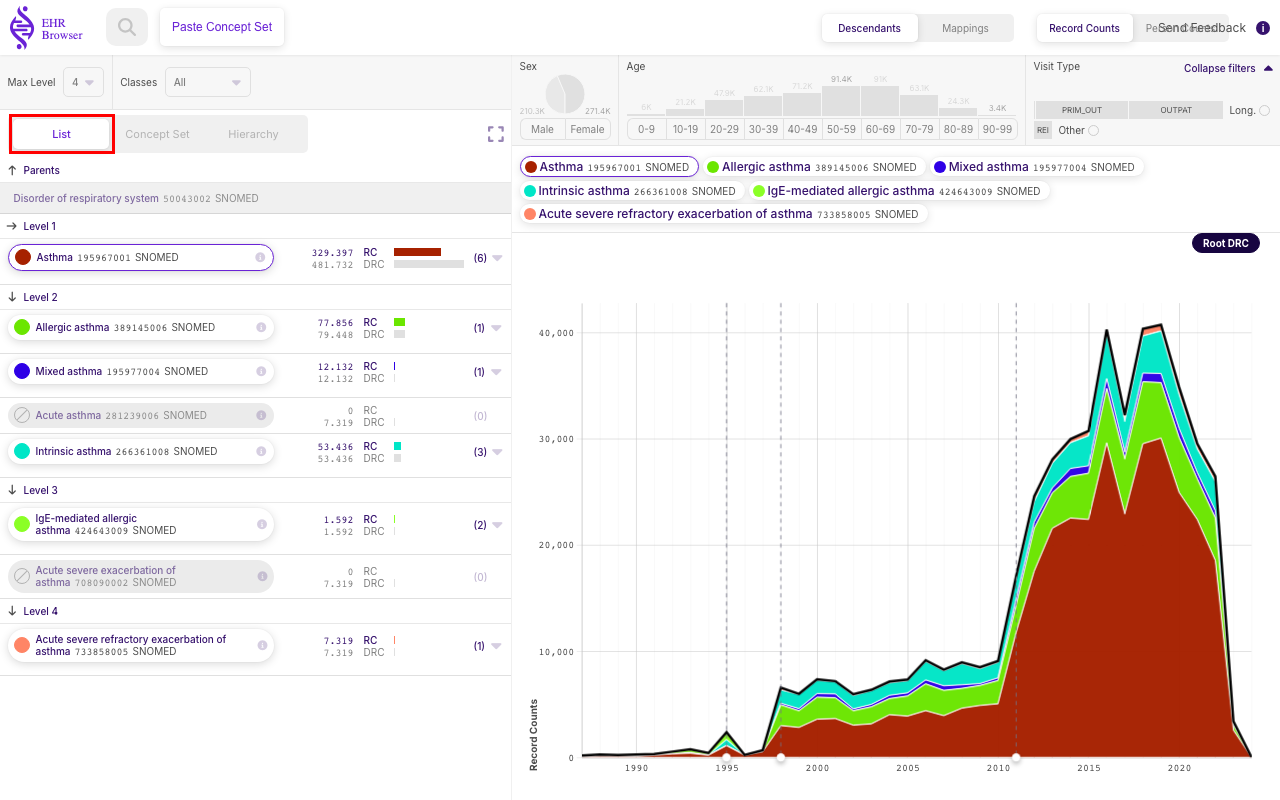
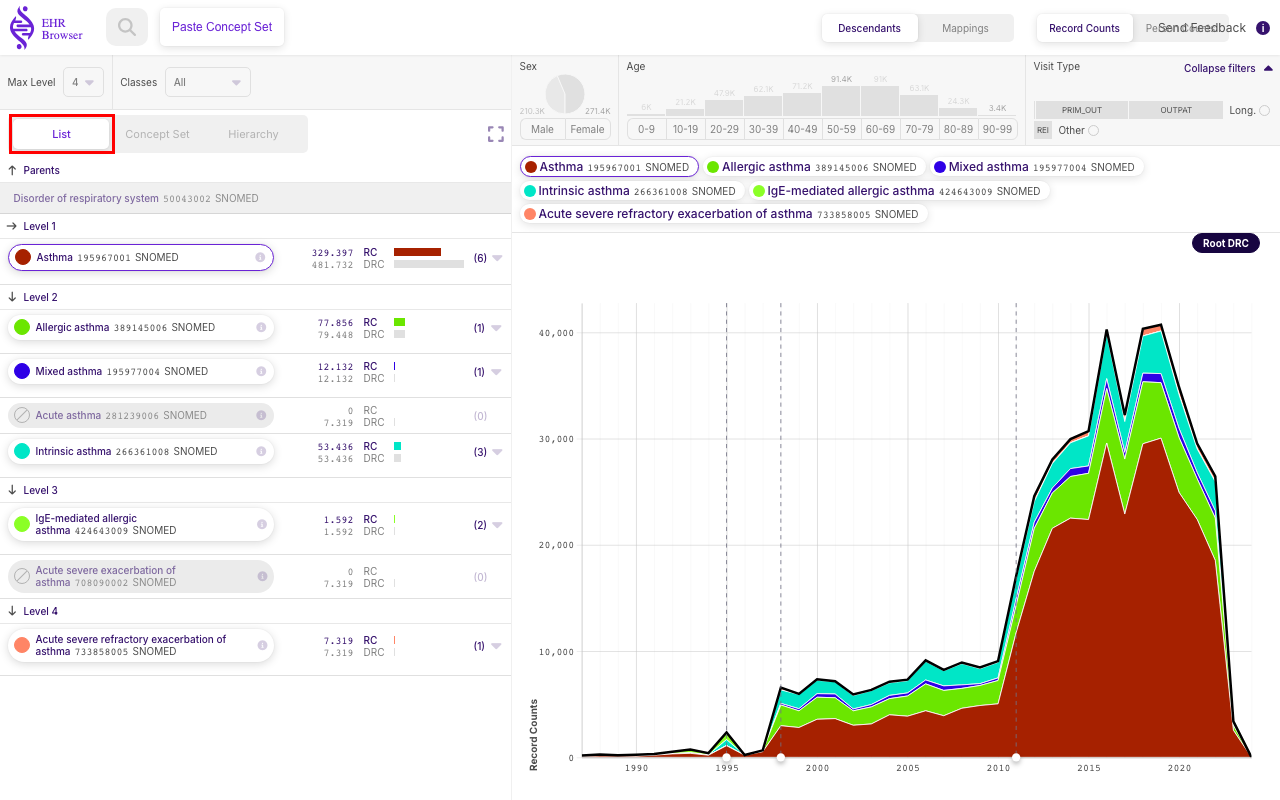
fix(autodocu): settle animations before screenshot capture
Chart screenshots flagged ~8% changed on visually-identical runs. Root
cause was capture timing, not the diff: the chart fades in, so a shot
taken mid-fade renders the fill at partial opacity, and the whole filled
area (~20/255 over ~8% of the frame) drifts run to run. No pixel-delta
tolerance can absorb that without going blind to real changes.

shot() now calls waitForStable(), polling the viewport until two
consecutive frames are byte-identical (8s cap) so captures are
reproducible. Fixed in both the live helpers and the skill template.

Also rolls in the previously-uncommitted 1280 x 800 rebuild of section 1
(window size, regenerated docs/spec/app_control, and settled baselines).

diff --git a/AUTODOCU/Tests/1.Exploring_a_single_standard_concept/exploring_a_single_standard_concept.spec.ts b/AUTODOCU/Tests/1.Exploring_a_single_standard_concept/exploring_a_single_standard_concept.spec.ts
@@ -5,48 +5,52 @@ const SECTION = '1.Exploring_a_single_standard_concept'; // must equal the folde
 
 test('exploring a single standard concept', async ({ page }) => {
   await page.goto('/'); // baseURL from config
-  // The app loads its vocabulary asynchronously; wait until it settles so the
-  // search field's input handler is wired up before we type.
   await page.waitForLoadState('networkidle');
-  const search = page.locator('#searchConcept');
-  await search.waitFor({ state: 'visible' });
 
   // ## Searching for a concept
-  // Use the 'Search concept' field to search for the 'Asthma' string.
-  await search.click();
-  await search.pressSequentially('Asthma', { delay: 60 });
+  // Use the 'Search concept' field to search for 'Asthma'.
+  const search = page.getByRole('textbox', { name: 'Search concept' });
+  await search.waitFor({ state: 'visible' });
 
-  // Hover over the 'AsthmaSNOMED' concept in the suggestion list, highlight it,
-  // and take a screenshot. (Outline calls it 'Astma SNOMED'; the real label is
-  // 'AsthmaSNOMED', standard concept id 317009.)
-  const asthmaSnomed = page.locator('#suggestion-317009');
-  await asthmaSnomed.waitFor({ state: 'visible' });
+  // Hover over the 'Asthma SNOMED' result (rendered as "AsthmaSNOMED").
+  const asthmaSnomed = page.getByText('AsthmaSNOMED', { exact: true });
+  // On a cold start the vocabulary index can still be loading, so the first
+  // keystroke query may return nothing. Retry typing until the result appears.
+  await expect(async () => {
+    await search.fill('');
+    await search.pressSequentially('Asthma', { delay: 30 });
+    await expect(asthmaSnomed).toBeVisible({ timeout: 3000 });
+  }).toPass({ timeout: 30000 });
+
+  // Highlight the result in the list and take a screenshot.
   await asthmaSnomed.hover();
   await highlight(page, asthmaSnomed);
   await shot(page, SECTION, '01-searching-for-a-concept');
   await clearHighlights(page);
 
-  // Click 'AsthmaSNOMED' and wait for the concept page to load.
+  // Click the concept and wait for the concept page to load.
   await asthmaSnomed.click();
   await page.waitForURL('**/317009');
-  await page.locator('#graph-group').waitFor({ state: 'visible' });
-  await page.locator('#view-toggle').waitFor({ state: 'visible' });
   await page.waitForLoadState('networkidle');
+  // Wait for both panels of the concept view to render before capturing:
+  // the left List toggle, and the right plot with its legend populated.
+  await page.locator('#list-toggle').waitFor({ state: 'visible' });
+  await page.locator('#graph-group').waitFor({ state: 'visible' });
+  await page.locator('#label-317009').first().waitFor({ state: 'visible' });
 
   // ## The concept view
   await shot(page, SECTION, '02-the-concept-view');
 
   // ### Hierarchy view
-  // Highlight the 'List' selector in the left (sidebar) area and take a screenshot.
+  // Highlight the 'List' selector in the left area and take a screenshot.
   const listSelector = page.locator('#list-toggle');
   await highlight(page, listSelector);
   await shot(page, SECTION, '03-hierarchy-view');
   await clearHighlights(page);
 
   // ### Time view
-  // Highlight the record-counts-over-time plot together with its colored-concept
-  // legend and take a screenshot. #graph-group wraps both the legend
-  // (#graph-labels) and the time-series chart (#graph-container).
+  // Highlight the Record Counts plot (chart + colored-concept legend) on the
+  // right of the page and take a screenshot.
   const timePlot = page.locator('#graph-group');
   await highlight(page, timePlot);
   await shot(page, SECTION, '04-time-view');

diff --git a/.claude/skills/autodocu/references/template/Tests/Scripts/playwright/_helpers.ts b/.claude/skills/autodocu/references/template/Tests/Scripts/playwright/_helpers.ts
@@ -33,9 +33,44 @@ export async function clearHighlights(page: Page) {
   });
 }
 
+// Wait until the viewport stops changing, so a screenshot is never taken while
+// something is still animating.
+//
+// WHY THIS EXISTS: charts in this kind of app fade/grow in (an opacity or path
+// transition). If you screenshot before the animation settles, the fill renders
+// at a partial opacity — and because the *timing* of the capture varies run to
+// run, two visually-identical runs disagree over the whole filled area by a
+// small-but-real amount (e.g. ~20/255 across ~8% of the frame). No pixel-delta
+// tolerance can absorb that without also going blind to genuine changes; the
+// only real fix is to capture a settled frame. So we poll: grab the viewport,
+// wait `interval`, grab again, and consider the page stable once two
+// consecutive frames are byte-identical (Chromium's PNG encoding is
+// deterministic for identical pixels). Bounded by `timeout` so a page with a
+// perpetual animation (spinner, blinking element) still proceeds.
+export async function waitForStable(
+  page: Page,
+  { interval = 250, timeout = 8000, settleFrames = 2 } = {},
+) {
+  const deadline = Date.now() + timeout;
+  let prev = await page.screenshot({ fullPage: false });
+  let stable = 1; // the first frame counts as one stable observation
+  while (Date.now() < deadline) {
+    await page.waitForTimeout(interval);
+    const cur = await page.screenshot({ fullPage: false });
+    if (cur.equals(prev)) {
+      if (++stable >= settleFrames) return;
+    } else {
+      stable = 1;
+    }
+    prev = cur;
+  }
+}
+
 // Capture a screenshot (the `take-screenshot` keyword) into
-// Documentation/<section>/screenshots/<name>.png
+// Documentation/<section>/screenshots/<name>.png. Waits for the page to stop
+// animating first so captures are reproducible run to run (see waitForStable).
 export async function shot(page: Page, section: string, name: string) {
+  await waitForStable(page);
   const file = path.join(DOC_ROOT, section, 'screenshots', `${name}.png`);
   await page.screenshot({ path: file, fullPage: false });
 }

diff --git a/AUTODOCU/Tests/Scripts/playwright/_helpers.ts b/AUTODOCU/Tests/Scripts/playwright/_helpers.ts
@@ -33,9 +33,44 @@ export async function clearHighlights(page: Page) {
   });
 }
 
+// Wait until the viewport stops changing, so a screenshot is never taken while
+// something is still animating.
+//
+// WHY THIS EXISTS: charts in this kind of app fade/grow in (an opacity or path
+// transition). If you screenshot before the animation settles, the fill renders
+// at a partial opacity — and because the *timing* of the capture varies run to
+// run, two visually-identical runs disagree over the whole filled area by a
+// small-but-real amount (e.g. ~20/255 across ~8% of the frame). No pixel-delta
+// tolerance can absorb that without also going blind to genuine changes; the
+// only real fix is to capture a settled frame. So we poll: grab the viewport,
+// wait `interval`, grab again, and consider the page stable once two
+// consecutive frames are byte-identical (Chromium's PNG encoding is
+// deterministic for identical pixels). Bounded by `timeout` so a page with a
+// perpetual animation (spinner, blinking element) still proceeds.
+export async function waitForStable(
+  page: Page,
+  { interval = 250, timeout = 8000, settleFrames = 2 } = {},
+) {
+  const deadline = Date.now() + timeout;
+  let prev = await page.screenshot({ fullPage: false });
+  let stable = 1; // the first frame counts as one stable observation
+  while (Date.now() < deadline) {
+    await page.waitForTimeout(interval);
+    const cur = await page.screenshot({ fullPage: false });
+    if (cur.equals(prev)) {
+      if (++stable >= settleFrames) return;
+    } else {
+      stable = 1;
+    }
+    prev = cur;
+  }
+}
+
 // Capture a screenshot (the `take-screenshot` keyword) into
-// Documentation/<section>/screenshots/<name>.png
+// Documentation/<section>/screenshots/<name>.png. Waits for the page to stop
+// animating first so captures are reproducible run to run (see waitForStable).
 export async function shot(page: Page, section: string, name: string) {
+  await waitForStable(page);
   const file = path.join(DOC_ROOT, section, 'screenshots', `${name}.png`);
   await page.screenshot({ path: file, fullPage: false });
 }

diff --git a/AUTODOCU/Documentation/1.Exploring_a_single_standard_concept/README.md b/AUTODOCU/Documentation/1.Exploring_a_single_standard_concept/README.md
@@ -4,36 +4,36 @@ The EHR Browser lets you load any standard concept from the vocabulary and immed
 
 ## Searching for a concept
 
-![Searching for "Asthma" with the AsthmaSNOMED suggestion highlighted](screenshots/01-searching-for-a-concept.png)
+Type into the **Search concept** field at the top of the page to look up a concept by name. Here we search for `Asthma`, and the browser opens a live list of matching concepts. Each row shows the concept name, its vocabulary (ICPC, ICD9fi, ICD10, SNOMED, …), and — underneath — its source `Code` and OMOP `Id`. The **Concept set** control on the right of each row lets you add that concept to a set.
 
-Type into the **Search concept** field at the top of the page to look up a concept by name. Here we search for the string `Asthma`, and the browser drops down a list of matching concepts as you type.
+To load the standard SNOMED concept, pick the **Asthma · SNOMED** entry (code `195967001`, id `317009`), highlighted below.
 
-Each suggestion shows the concept's name, its source vocabulary (ICPC, ICD9fi, ICD10, SNOMED, …), and its `Code` and `Id`. The entry highlighted in red is **Asthma / SNOMED** (`Code: 195967001`, `Id: 317009`) — the standard SNOMED concept we want. The `+ Concept set` control on each row lets you add that concept to a set, but to open the concept itself, click its row. Doing so loads the concept page shown next.
+![Searching for the Asthma SNOMED concept](screenshots/01-searching-for-a-concept.png)
 
 ## The concept view
 
-![The full concept view for Asthma (SNOMED)](screenshots/02-the-concept-view.png)
+Clicking the concept opens its dedicated page, laid out in three areas.
 
-Once a concept is loaded, the page is organized into three areas:
+![The Asthma concept view](screenshots/02-the-concept-view.png)
 
-- **Top area** — the page-wide controls. From here you can change the current concept (via the search field), switch between **Descendants** and **Mappings** to show the concept's descendant hierarchy or its non-standard mapped concepts, and toggle between **Record Counts** and **Person Counts** so every count on the page reflects either the number of records or the number of distinct persons.
-- **Left area** — the concept's descendant hierarchy. Each descendant is listed with its record count (`RC`) and descendant record count (`DRC`), grouped by level, so you can see how the counts are distributed across the hierarchy.
-- **Right area** — the count distributions for the current concept broken down by **Sex**, **Age**, **Visit Type**, and over **Time**.
+- **Top bar** — controls that affect the whole page. The **Descendants / Mappings** toggle switches between the concept's descendant hierarchy and its non-standard mappings, and the **Record Counts / Person Counts** toggle switches the metric shown everywhere on the page between event records and distinct persons.
+- **Left area** — the concept and its descendants, with a count distribution for each. Every card shows the concept name, code and vocabulary alongside its **RC** (Record Counts) and **DRC** (Descendant Record Counts) values and a small inline bar, grouped by hierarchy **Level** (Level 1, Level 2, Level 3, Level 4, …) beneath the **Parents** row.
+- **Right area** — the same counts broken down along several dimensions: **Sex** (a Male/Female split), **Age** (a histogram across 0–9 … 90–99 bands), **Visit Type**, and **Time** (the record-count trend, described below).
 
 ### Hierarchy view
 
-The left area offers three ways to view the descendants, selectable from the toggle at the top:
+The left area can present the descendants three different ways, chosen with the selector at the top of that panel:
 
-- **List** — a flat, level-by-level list of the descendant concepts with their counts.
-- **Concept Set** — the descendants presented as an editable concept set.
-- **Hierarchy** — the descendants drawn as a graph of the vocabulary hierarchy.
+- **List** — a flat, level-by-level list of every descendant concept (the default, shown here).
+- **Concept Set** — the descendants as an editable concept set.
+- **Hierarchy** — the descendants drawn as a graph of parent/child relationships.
 
-![The "List" selector highlighted in the left area](screenshots/03-hierarchy-view.png)
+The **List** option is highlighted below.
 
-The **List** selector, highlighted above, is the default view — it shows the parents of the concept followed by each level of descendants (Level 1, Level 2, …), each row carrying its `RC` and `DRC` values.
+![The hierarchy view selector, List highlighted](screenshots/03-hierarchy-view.png)
 
 ### Time view
 
-![The record-counts-over-time plot and its colored-concept legend highlighted](screenshots/04-time-view.png)
+The plot on the right of the page shows how the counts accrue over time. It is a stacked area chart of **Record Counts** by year (here spanning roughly 1990–2020), with each descendant concept drawn in its own colour. The **legend** above the chart names those colored concepts — Asthma, Allergic asthma, Mixed asthma, Intrinsic asthma, IgE-mediated allergic asthma, Acute severe refractory exacerbation of asthma — so each band in the stack can be traced back to a specific concept.
 
-The plot highlighted above shows how the counts accumulate over time. The **legend** at the top pairs each concept with a color — Asthma, Allergic asthma, Mixed asthma, Intrinsic asthma, IgE-mediated allergic asthma, and Acute severe refractory exacerbation of asthma — and the stacked area chart below plots those colored concepts across the years (roughly 1990 through 2020), so you can read at a glance when each descendant contributes to the totals.
+![The Record Counts over time plot with its concept legend](screenshots/04-time-view.png)

diff --git a/AUTODOCU/Outline/build_report.md b/AUTODOCU/Outline/build_report.md
@@ -1,33 +1,17 @@
 # Build report
 
-Advisory notes on how to make the Outline clearer for future builds. Nothing in `Outline/` was modified — these are suggestions only.
+Advisory notes from the last `autodocu build`. This file is generated (overwritten every build); your Outline input was not modified by the build itself.
+
+The Outline is now essentially clean — the keyword typos, wrong concept label, and the left/right contradiction flagged in the previous build have all been fixed, and the window size is now `1280 × 800`. The build ran without needing to guess any locator or default any `# Run` field.
 
 ## `Outline/README.md`
 
-- **Missing browser window size.** The `# Run` section gives the command and URL but no viewport size. Defaulted to `1280x800`. Consider stating it explicitly, e.g. `Window size: 1280x800`.
-- **`# Run` has no explicit port field.** The port (`8563`) was inferred from the `docker run -p 8563:8563` command and the URL. That inference is safe here, but stating the port on its own line would remove the guesswork.
-- **Typos in the run instructions (cosmetic).** `"Lauch the docker image"` → "Launch", and `"Navegate to"` → "Navigate to". These don't affect the build.
+- **Clean for build purposes.** Two harmless prose typos remain in the `# Run` section and do not affect anything: `"Lauch the docker image"` → "Launch", and `"Navegate to"` → "Navigate to". (The run command also has a double space — `8563  ehr_browser` — which the shell ignores.) Fix only if you want the prose tidy.
 
 ## `Outline/1.Exploring_a_single_standard_concept/README.md`
 
-### Fuzzy-matched keywords (accepted, but worth correcting)
+- **Clean.** All keywords now spelled `highlight` / `take-screenshot`; the concept label reads `Asthma SNOMED` (matches the app's `AsthmaSNOMED` result, id `317009`); and the Time-view step correctly says the plot is on the **right side**. The `## Searching for a concept` → `## The concept view` → `### Hierarchy view` → `### Time view` heading hierarchy was mirrored exactly in the rendered doc, and all four `take-screenshot` steps produced real captures from a passing test run against the live app.
 
-- Line: `Hover over 'Astma SNOMED', `higlight` the 'Astma SNOMED' concept in the list` — `higlight` was read as **`highlight`**.
-- Line: ``highligth` the 'List' selector` — `highligth` was read as **`highlight`**.
-- Line: ``highligth` the plot in the left side` — `highligth` was read as **`highlight`**.
+## Result
 
-### Wrong / ambiguous labels
-
-- **Concept name `'Astma SNOMED'` does not match the app.** The real suggestion is **`AsthmaSNOMED`** (displayed as "Asthma" + vocabulary "SNOMED"), standard concept `Id: 317009`, `Code: 195967001`. `'Astma'` is missing the `h`. Suggested fix: quote it as `Asthma (SNOMED)` or `AsthmaSNOMED`.
-
-### Contradictory location
-
-- **"Time view" plot said to be on the "left side".** The step ``highligth` the plot in the left side including the legend with the colored concepts` places the plot on the left, but the record-counts-over-time plot **and** its colored-concept legend are in the **right** area (element `#graph-group`, inside `#graph-section-container`). The left area holds the descendant list/hierarchy instead. The screenshot (`04-time-view.png`) highlights the actual right-side plot. Suggested fix: change "in the left side" to "in the right area".
-
-### Minor prose typos (do not affect the build, but appear in step text)
-
-- `"Descrive"` → "Describe" (appears twice), `"swithc"` → "switch", `"diffeent"` → "different", `"hierarachy"` → "hierarchy", `"acrost"` → "across", `"breafly"` → "briefly". These are inside describe-the-area notes, so they only guided prose, not locators.
-
-## Summary
-
-The single section built cleanly and all four screenshots were captured from a passing test run against the live app. The only substantive issue was the **"left side" vs. right-area** contradiction for the time plot; everything else was spelling that was matched loosely.
+- Playwright: **1/1 spec passed**. Screenshot diffs: **4/4** (all captured fresh as new `1280 × 800` baselines). See `Tests/test_report.md`.

diff --git a/AUTODOCU/Outline/1.Exploring_a_single_standard_concept/README.md b/AUTODOCU/Outline/1.Exploring_a_single_standard_concept/README.md
@@ -11,20 +11,20 @@ The EHR Browser lets you load any standard concept from the vocabulary and immed
 ## Searching for a concept
 
 - Use the 'Search concept' field to search for 'Asthma' string. 
-- Hover over 'Astma SNOMED', `higlight` the 'Astma SNOMED' concept in the list, `take-screenshot` 
-- Click 'Astma SNOMED', wait for the page to load
+- Hover over 'Asthma SNOMED', `highlight` the 'Asthma SNOMED' concept in the list, `take-screenshot` 
+- Click 'Asthma SNOMED', wait for the page to load
 
 ## The concept view
 
 - `take-screenshot` 
-- Descrive the different sections of the concept page. The top area is for changing the current concept or swithc views that affect the whole page, showing mapped concepts or switch between record and person counts. The left are show diffeent counts distributions across hierarachy. The right view show the counts distributions acrost, Sex, Age, Visit Type, and Time. 
+- Describe the different sections of the concept page. The top area is for changing the current concept or switch views that affect the whole page, showing mapped concepts or switch between record and person counts. The left area shows different counts distributions across hierarchy. The right view shows the counts distributions across Sex, Age, Visit Type, and Time. 
 
 ### Hierarchy view
 
-- Descrive breafly the 3 options for hierarchy view: List, ConceptSet, Hierarchy
-- `highligth` the 'List' selector in the left area and `take-screenshot`
+- Describe briefly the 3 options for hierarchy view: List, Concept Set, Hierarchy
+- `highlight` the 'List' selector in the left area and `take-screenshot`
 
 
 ### Time view
 
-- `highligth` the plot in the left side including the legend with the colored concepts, `take-screenshot`.
+- `highlight` the plot in the right side including the legend with the colored concepts, `take-screenshot`.

diff --git a/AUTODOCU/Documentation/README.md b/AUTODOCU/Documentation/README.md
@@ -4,4 +4,4 @@ EHR Browser connects to an OMOP-CDM instance and lets you browse the vocabulary 
 
 ## Use cases
 
-- [**Exploring a single Standard Concept**](./1.Exploring_a_single_standard_concept/README.md): How to search for a concept, open its concept page, navigate the List/Concept Set/Hierarchy views, and read the record-counts-over-time plot.
+- [**Exploring a single Standard Concept**](./1.Exploring_a_single_standard_concept/README.md): How to search for a concept, navigate the Tree and List views, and interpret the Record Counts charts.

diff --git a/AUTODOCU/Tests/test_report.md b/AUTODOCU/Tests/test_report.md
@@ -2,7 +2,9 @@
 
 Sections show the Playwright test result; the screenshot rows below each
 show whether the newly captured image stayed within 1% of the committed one
-(over threshold = the image changed and was replaced = FAIL).
+(over threshold = the image changed = FAIL). By default a changed image is **kept**
+and its before/after is saved below for review; `./run_test.sh --accept-changes`
+adopts the new captures as the baseline for future runs.
 
 | Test name | Result |
 |-----------|--------|

diff --git a/AUTODOCU/Outline/README.md b/AUTODOCU/Outline/README.md
@@ -28,3 +28,5 @@ docker run --rm -p 8563:8563  ehr_browser
 Navegate to 
 
 http://localhost:8563/
+
+Window size: 1280 × 800
